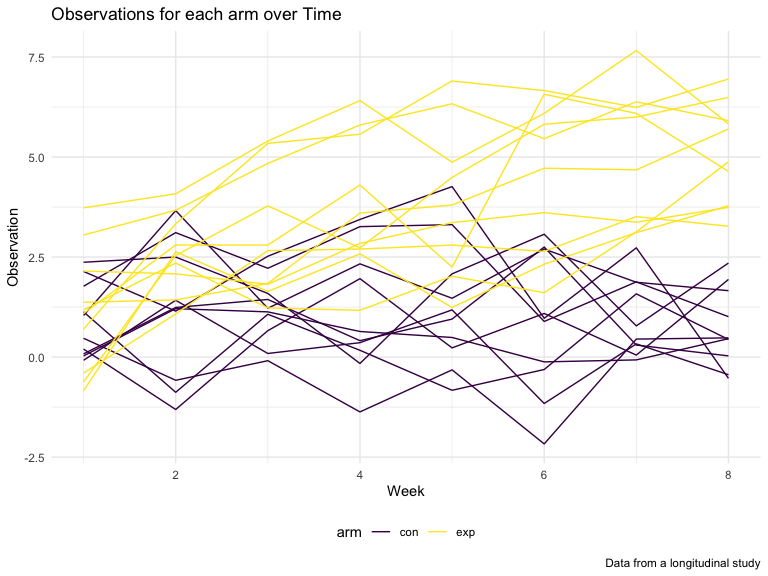
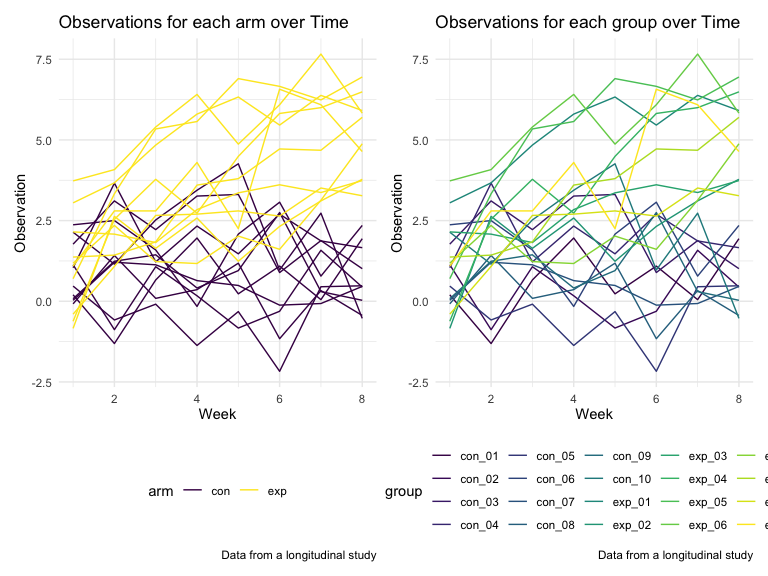
update p2

diff --git a/p8105_hw5_sz2872.md b/p8105_hw5_sz2872.md
@@ -365,7 +365,8 @@ data =
 ## make plot
 
 ``` r
-data %>% 
+plot_arm = 
+  data %>% 
   ggplot(aes(x = week, y = observation, group = group, col = arm))+
   geom_line() +
   labs(
@@ -374,9 +375,27 @@ data %>%
     y = "Observation",
     caption = "Data from a longitudinal study") +
   theme(legend.position = "bottom")
+
+plot_group = 
+  data %>% 
+  ggplot(aes(x = week, y = observation, group = group, col = group))+
+  geom_line() +
+  labs(
+    title = "Observations for each group over Time",
+    x = "Week",
+    y = "Observation",
+    caption = "Data from a longitudinal study") +
+  theme(legend.position = "bottom")
+
+plot_arm + plot_group
 ```
 
 <img src="p8105_hw5_sz2872_files/figure-gfm/unnamed-chunk-10-1.png" width="90%" />
+
+From the plot, it is obvious that experiment group has higher position
+as whole, compared to control group. The difference is getting clear as
+the study time being long. The differences also show up for each
+individual con & exp groups.
 
 # Problem 3
 
@@ -432,21 +451,3 @@ sim_results %>% filter(p.value < 0.05)
     ## # … with 244 more rows
 
 ## mu = 1:6
-
-``` r
-mu_list = 
-  list(
-    "mu_1" = 1, 
-    "mu_2" = 2, 
-    "mu_3" = 3, 
-    "mu_4" = 4,
-    "mu_5" = 5,
-    "mu_6" = 6)
-
-output = vector("list", length = 6)
-
-for (i in 1:4) {
-  output[[i]] = rerun(5000, sim_n_sd(mu = mu_list[[i]])) %>% 
-    bind_rows
-}
-```
